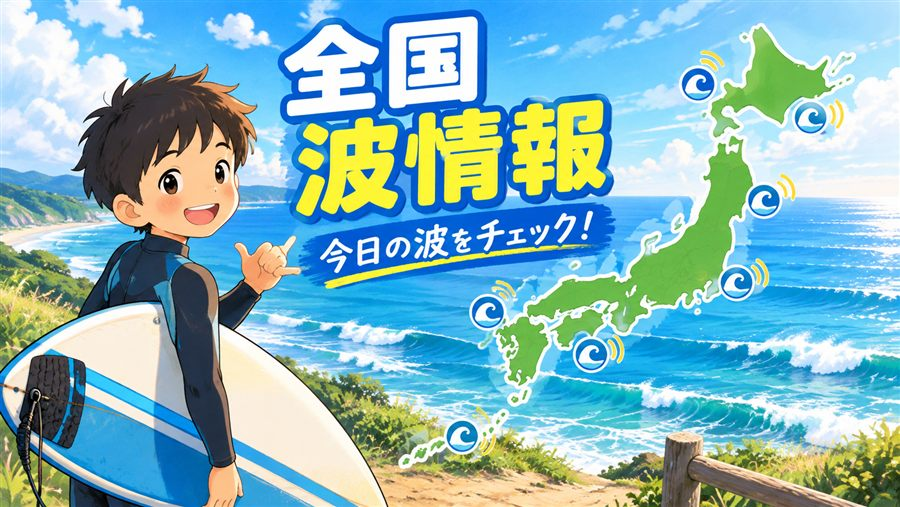
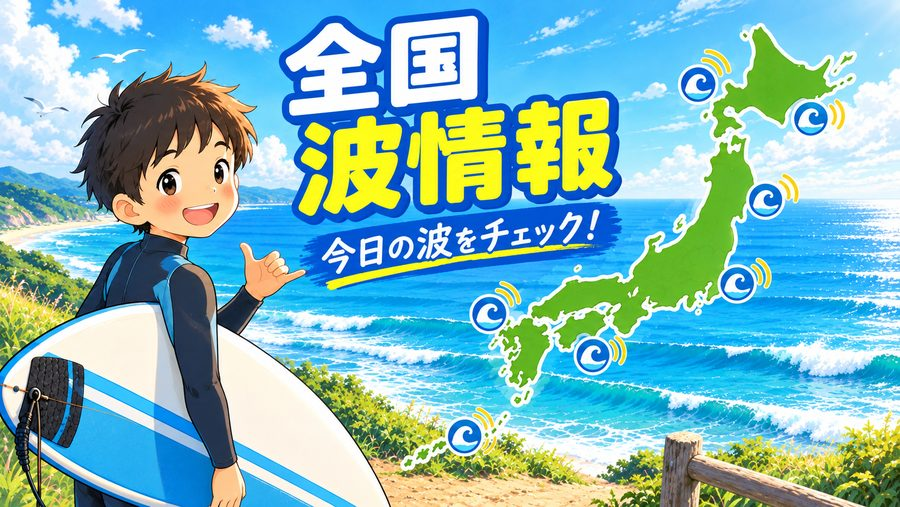
v1.0.3：男の子の絵を、指を直した新しい絵に差しかえ
アイコン（通常・丸く切り抜かれる用）と画面上部の絵を作り直した。アイコンは軽いまま（約120KB）。

diff --git a/sw.js b/sw.js
@@ -1,6 +1,6 @@
 // 全国波情報 Service Worker（アプリを裏で支える小さなプログラム）
 // 画面の部品だけを保存する。予測データはアプリ側が端末に保存するので、ここでは触らない。
-const CACHE = 'nami-doko-zenkoku-v1.0.2';
+const CACHE = 'nami-doko-zenkoku-v1.0.3';
 const SHELL = ['./', 'index.html', 'zenkoku-nami.webmanifest', 'banner.jpg', 'icon-192.png', 'icon-512.png', 'icon-maskable-512.png'];
 
 self.addEventListener('install', e => {

diff --git a/index.html b/index.html
@@ -170,7 +170,7 @@ footer a{color:var(--sea)}
 </footer>
 
 <script>
-const VERSION = 'v1.0.2';
+const VERSION = 'v1.0.3';
 
 // ───── ポイントの特徴データ（ここを直すと判定が変わる） ─────
 // area   : どのエリアか（下の AREAS の id）
